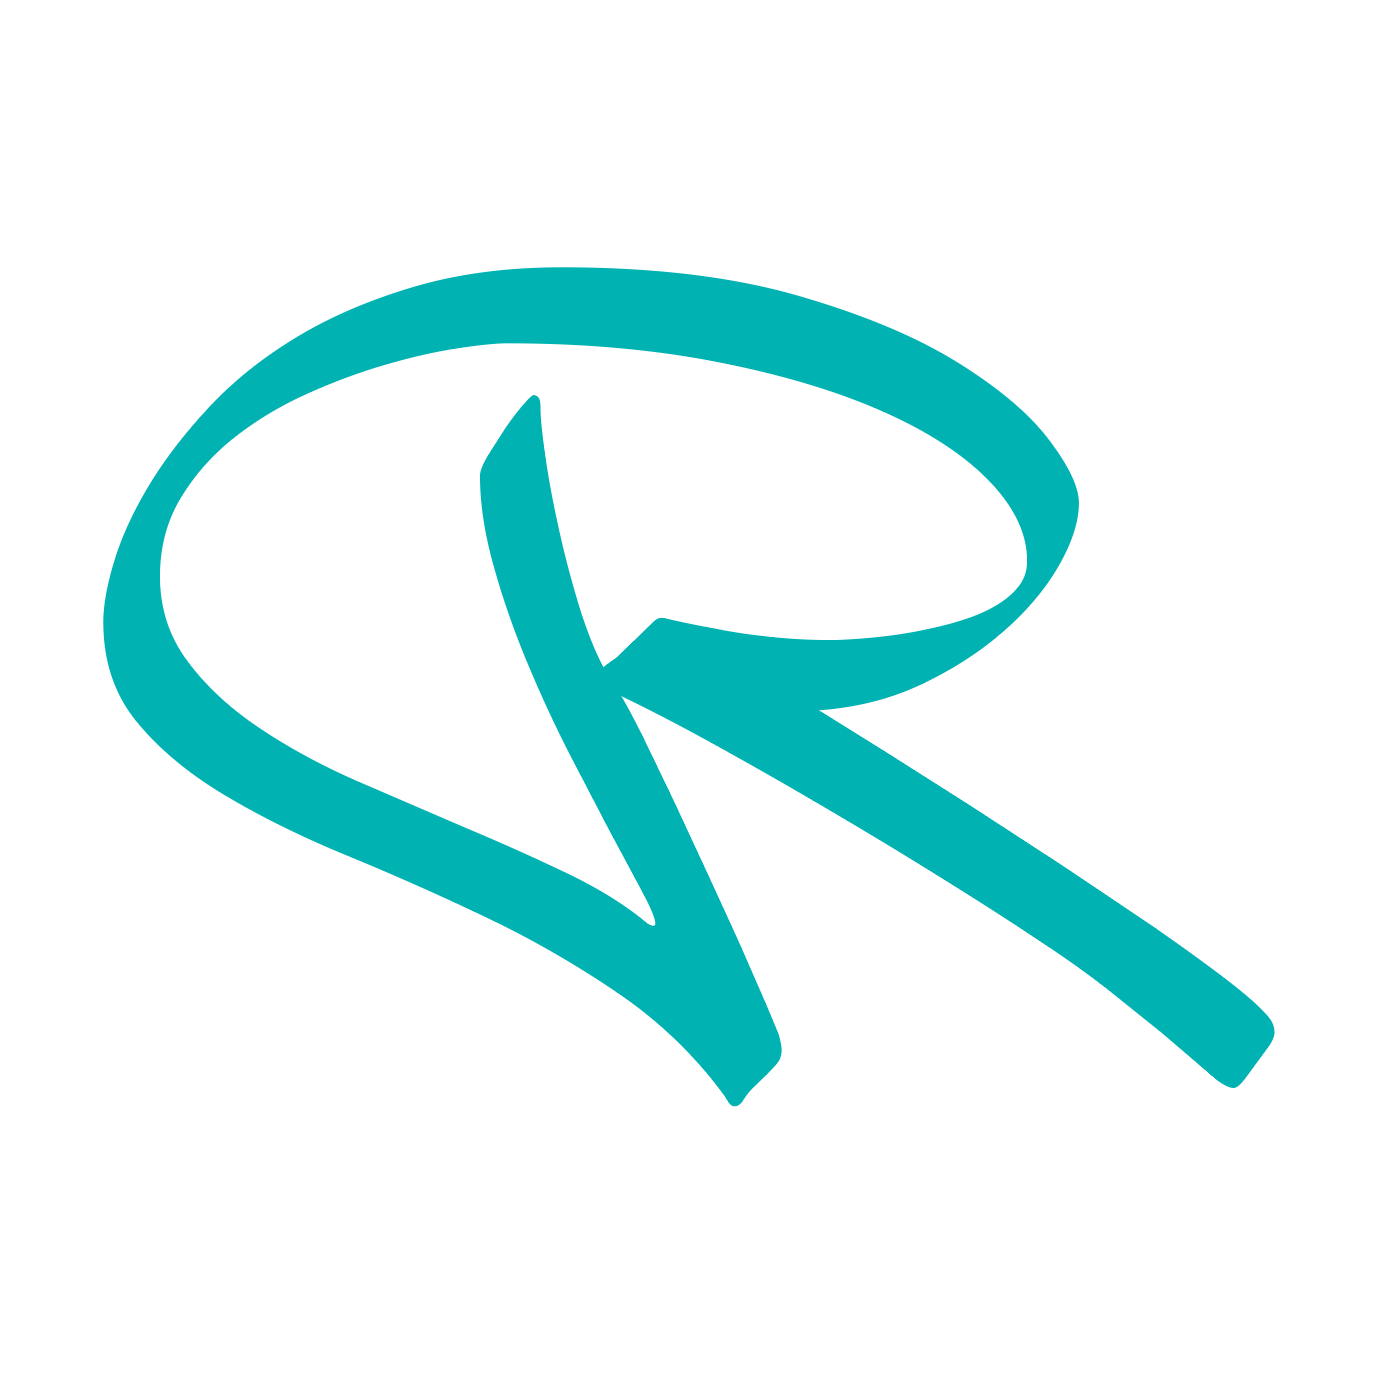
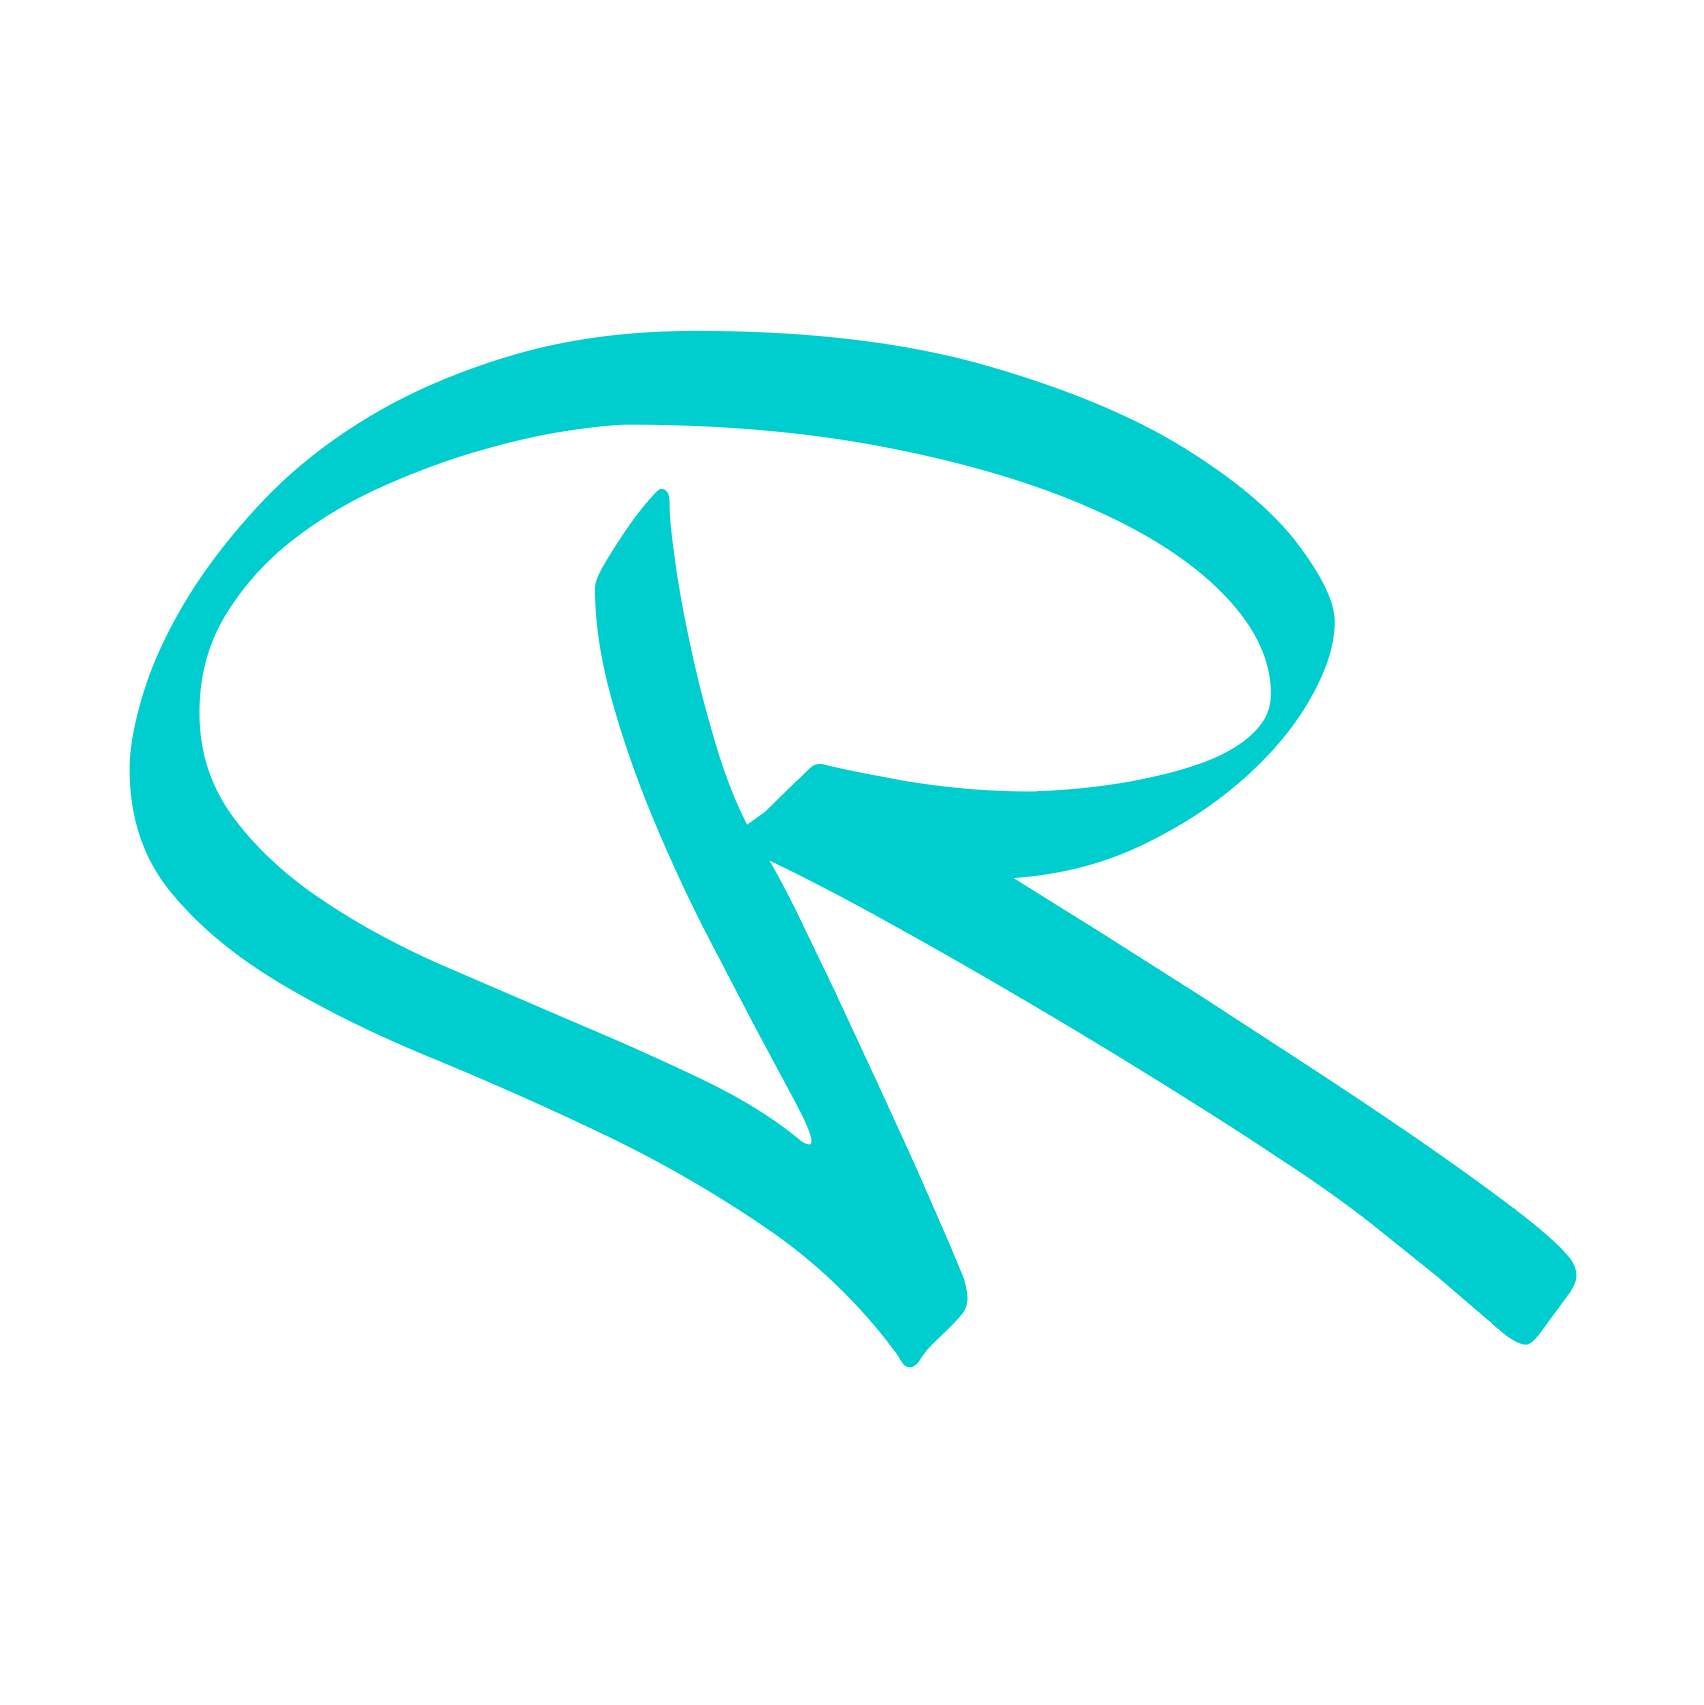
headers

Changed region(s): [[0.0625, 0.1872, 0.9375, 0.8113]]

diff --git a/index.html b/index.html
@@ -4,7 +4,7 @@
 <head>
   <meta charset="utf-8">
   <title>Rena Yang</title>
-  <link rel="icon" type="images/x-icon" href="img/icon.png>
+  <link rel="icon" href="images/icon.png type="images/x-icon">
 
   <!-- mobile responsive meta -->
   <meta name="viewport" content="width=device-width, initial-scale=1">
@@ -71,7 +71,7 @@
 						<li><a class="dropdown-item" href="blog-single.html">Blog Single</a></li>
 					</ul>
 			  </li>
-			   <li class="nav-item"><a class="nav-link" href="contact.html">Contact</a></li>
+			   <li class="nav-item"><a class="nav-link" href="contact.html">Resume</a></li>
 			</ul>
 		</div>
 	</div>
@@ -80,7 +80,7 @@
 <!-- Header Close --> 
 
 
-<!-- Navigation ENd -->
+<!-- Navigation End -->
 
 <!-- Banner Start -->
 <section class="section banner">
@@ -92,10 +92,10 @@
                     <span class="cd-words-wrapper text-color">
                         <b class="is-visible">Researcher. </b>
                         <b>Illustrator.</b>
-                        <b>Programmer.</b>
+						<b>Engineer.</b>
                     </span>
                 </h2>
-                <p>I must explain to you how all this mistaken idea of denouncing pleasure and praising pain <br>was born and I will give you a complete account of the system</p>
+                <p>A creative who walks the line between art and the sciences. I'm a </p>
 			</div>
 		</div>
 	</div>
@@ -103,7 +103,7 @@
 
 <!-- Banner End -->
 
-<!-- POrtfolio start -->
+<!-- Portfolio start -->
 <section class="portfolio ">
 	<div class="container">
 		<div class="row mb-5">
@@ -113,16 +113,16 @@
 		            <input type="radio" name="shuffle-filter" value="all" checked="checked" />All Projects
 		          </label>
 		          <label class="btn">
-		            <input type="radio" name="shuffle-filter" value="design" />UI/UX Design
+		            <input type="radio" name="shuffle-filter" value="design" />Research
 		          </label>
 		          <label class="btn">
-		            <input type="radio" name="shuffle-filter" value="branding" />branding
+		            <input type="radio" name="shuffle-filter" value="branding" />Art
 		          </label>
 		          <label class="btn">
-		            <input type="radio" name="shuffle-filter" value="illustration" />Web Development
+		            <input type="radio" name="shuffle-filter" value="illustration" />Programming
 		          </label>
 		           <label class="btn">
-		            <input type="radio" name="shuffle-filter" value="photo" />Photography
+		            <input type="radio" name="shuffle-filter" value="photo" />Narrative
 		          </label>
 		        </div>
 	      	</div>

diff --git a/css/style.css b/css/style.css
@@ -91,7 +91,7 @@ h6, .h6 {
 }
 
 .btn-main {
-  background: #00B2B2;
+  background: #00CECE;
   color: #fff;
 }
 
@@ -106,7 +106,7 @@ h6, .h6 {
 }
 
 .btn-black:hover {
-  background: #00B2B2;
+  background: #00CECE;
   color: #fff;
 }
 
@@ -127,13 +127,13 @@ a {
 }
 
 a:hover {
-  color: #00B2B2;
+  color: #00CECE;
   text-decoration: none;
   outline: none;
 }
 
 .bg-primary {
-  background: #00B2B2 !important;
+  background: #00CECE !important;
 }
 
 .bg-secondary {
@@ -145,7 +145,7 @@ a:hover {
 }
 
 .text-color {
-  color: #00B2B2;
+  color: #00CECE;
 }
 
 .page-title h1 {
@@ -161,7 +161,7 @@ a:hover {
   width: 40px;
   height: 2px;
   margin-left: -25px;
-  background: #00B2B2;
+  background: #00CECE;
 }
 
 @media (max-width: 575px) {
@@ -229,7 +229,7 @@ ul.dropdown-menu > li > a, .navbar ul ul ul.dropdown-menu li .nav-link {
 }
 
 ul.dropdown-menu > li > a:hover, .navbar ul ul ul.dropdown-menu li .nav-link:hover {
-  color: #00B2B2;
+  color: #00CECE;
 }
 
 .dropdown-item:focus, .dropdown-item:hover {
@@ -361,7 +361,7 @@ ul.dropdown-menu > li > a:hover, .navbar ul ul ul.dropdown-menu li .nav-link:hov
 }
 
 .portfolio .btn-group .btn:hover {
-  color: #00B2B2;
+  color: #00CECE;
 }
 
 .portfolio .btn-group:not(:first-child) > .btn, .portfolio .btn-group > .btn:not(:first-child) {
@@ -370,7 +370,7 @@ ul.dropdown-menu > li > a:hover, .navbar ul ul ul.dropdown-menu li .nav-link:hov
 }
 
 .portfolio .btn.active {
-  color: #00B2B2;
+  color: #00CECE;
 }
 
 .inner-box {
@@ -611,7 +611,7 @@ ul.dropdown-menu > li > a:hover, .navbar ul ul ul.dropdown-menu li .nav-link:hov
 
 .form-control:focus {
   box-shadow: none;
-  border-color: #00B2B2;
+  border-color: #00CECE;
 }
 
 textarea.form-control {
@@ -635,7 +635,7 @@ textarea.form-control {
   width: 40px;
   height: 2px;
   margin-left: -25px;
-  background: #00B2B2;
+  background: #00CECE;
 }
 
 .letter-spacing {
@@ -666,7 +666,7 @@ textarea.form-control {
 }
 
 .post .post-content a:hover h4 {
-  color: #00B2B2;
+  color: #00CECE;
 }
 
 .pagination {
@@ -684,12 +684,12 @@ textarea.form-control {
 }
 
 .pagination li a:hover {
-  background: #00B2B2;
+  background: #00CECE;
   color: #fff;
 }
 
 .pagination li.active a {
-  background: #00B2B2;
+  background: #00CECE;
   color: #fff;
 }
 
@@ -796,7 +796,7 @@ textarea.form-control {
 }
 
 .footer-widget a:hover {
-  color: #00B2B2;
+  color: #f44336;
 }
 
 /*# sourceMappingURL=maps/style.css.map */
